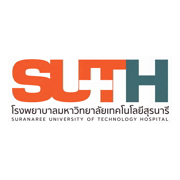
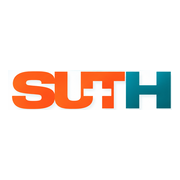
feat(brand): เพิ่ม brand asset ต้นฉบับ SUTH และจุดอ้างเดียวในโค้ด (#47)
เจ้าของระบบส่งไฟล์โลโก้ SUTH ฉบับจริงมาให้ใช้กับงานนี้ ข้อกำหนดของ Issue ระบุว่า
"ไม่วาดใหม่" และต้องเก็บต้นฉบับให้ผู้พัฒนาคนถัดไปเข้าถึงได้จากโปรเจกต์

- ต้นฉบับอยู่ที่ docs/assets/brand/ พร้อม README บอกที่มาและพารามิเตอร์ crop
- derivative ที่เบราว์เซอร์โหลดจริงอยู่ที่ apps/web/public/brand/
- ทุกจุดอ้างผ่าน BRAND_ASSETS ใน app/brand.js ที่เดียว
- favicon และ apple-touch-icon สร้างใหม่จากต้นฉบับเดียวกัน

กฎเดิมใน design-references.md ห้ามคัดลอกไฟล์ใดๆ เข้า repository ซึ่งเขียนไว้ตอนที่
แหล่งอ้างอิงทั้งหมดเป็นงานของคนอื่น การแยกกฎตามเจ้าของไฟล์เป็นการตัดสินใจที่ย้อนกลับยาก
จึงบันทึกเป็น ADR-0015

Claude-Session: https://claude.ai/code/session_01TXvettLLJgpECa1BjJegU9

Changed region(s): [[0.0556, 0.3056, 0.9722, 0.6944]]

diff --git a/apps/web/src/app/brand.js b/apps/web/src/app/brand.js
@@ -39,6 +39,14 @@ export const ORG_NAME_SHORT = t("โรงพยาบาล มทส.");
 /** ฝ่ายที่ดูแลระบบ — ใช้ในข้อความติดต่อเมื่อเข้าใช้งานไม่ได้ */
 export const OWNER_TEAM = t("ฝ่ายเทคโนโลยีสารสนเทศ");
 
+/** Brand assets — ทุกจุดอ้างผ่านที่นี่ ห้ามกระจาย path ไปตาม component */
+export const BRAND_ASSETS = Object.freeze({
+  /** ภาพเต็มสำหรับ Login — derivative ขนาดเว็บจากต้นฉบับของผู้ใช้ */
+  horizontal: "/brand/suth-horizontal.webp",
+  /** ตัดเฉพาะตัวอักษร SUTH จากต้นฉบับเดียวกัน ใช้ใน shell */
+  wordmark: "/brand/suth-wordmark.png",
+});
+
 /**
  * ชื่อแท็บเบราว์เซอร์
  * @param {string} [page] ชื่อหน้าปัจจุบัน — ไม่ส่งมา = หน้าแรก/ยังไม่รู้ว่าหน้าไหน

diff --git a/docs/decisions/0015-brand-assets-in-repository.md b/docs/decisions/0015-brand-assets-in-repository.md
@@ -1,0 +1,49 @@
+# 0015 — เก็บ brand asset ของเจ้าของระบบไว้ใน repository
+
+**สถานะ:** Accepted
+
+## บริบท
+
+`docs/explanation/design-references.md` เคยมีกฎเดียวครอบทุกอย่างว่า **"ไม่คัดลอกโลโก้ ภาพ
+ไอคอน ตัวอักษร หรือไฟล์ใดๆ เข้ามาใน repository นี้ artwork ทุกชิ้นใน SUTH สร้างใหม่ด้วย
+CSS/SVG จากสีแบรนด์ของโรงพยาบาลเอง"**
+
+กฎนั้นเขียนขึ้นตอนที่แหล่งอ้างอิงทั้งหมดเป็นงานของคนอื่น — Linear, Stripe, Attio, งานบน
+Dribbble — ซึ่งการดึงไฟล์ของเขาเข้ามาคือการละเมิดจริง ตอนนั้นจึงไม่มีเหตุให้แยกแยะว่า
+"ไฟล์ของใคร"
+
+งาน [#47](https://github.com/saritrungj/suth-helpdesk-assets/issues/47) ทำให้ข้อแตกต่างนั้น
+สำคัญขึ้นมา เจ้าของระบบส่งไฟล์โลโก้ SUTH ฉบับจริงมาให้ใช้กับงานนี้โดยตรง กฎเดิมอ่านตรงตัว
+แล้วห้ามไฟล์นั้นด้วย ทั้งที่เป็นทรัพย์สินของผู้ว่าจ้างเอง และข้อกำหนดของงานระบุชัดว่า
+**"ไม่วาดใหม่"** — ให้ใช้ภาพต้นฉบับและ exact crop เท่านั้น เพราะโลโก้ที่วาดเลียนแบบด้วย
+CSS/SVG ไม่ใช่โลโก้ของโรงพยาบาล มันคือของปลอมที่หน้าตาใกล้เคียง
+
+ทางเลือกที่จะไม่แก้กฎแล้วเก็บไฟล์ไว้นอก repository ถูกปฏิเสธด้วยข้อกำหนดของงานเช่นกัน:
+ต้นฉบับต้อง **"ให้ผู้พัฒนาคนถัดไปเข้าถึงได้จากโปรเจกต์"** asset ที่อยู่ใน Drive หรือแชท
+หายไปพร้อมคนที่ถือลิงก์เสมอ
+
+## การตัดสินใจ
+
+แยกกฎเดียวออกเป็นสองกฎ ตาม **เจ้าของไฟล์** ไม่ใช่ตามชนิดของไฟล์
+
+- **asset ของแหล่งอ้างอิงภายนอก — ห้ามเข้า repository เด็ดขาด** ใช้ได้เฉพาะการศึกษา
+  องค์ประกอบและพฤติกรรม ข้อห้ามนี้ไม่ผ่อนลง
+- **brand asset ของเจ้าของระบบ — เก็บได้** โดยมีเงื่อนไขว่าต้องบันทึกที่มาไว้ และมี
+  บ้านเดียว
+
+บ้านของมันคือ `docs/assets/brand/` — ต้นฉบับที่ผู้ใช้ส่งมาเก็บไว้โดยไม่แก้ภาพ พร้อม
+`README.md` ที่บอกว่าไฟล์ไหนมาจากไหน และ derivative ขนาดเว็บถูกสร้างด้วยพารามิเตอร์ใด
+ส่วนไฟล์ที่เบราว์เซอร์โหลดจริงอยู่ที่ `apps/web/public/brand/` และทุกจุดในโค้ดอ้างผ่าน
+`BRAND_ASSETS` ใน `apps/web/src/app/brand.js` ที่เดียว ห้ามพิมพ์ path ซ้ำใน component
+
+## ผลที่ตามมา
+
+- ย่อหน้าเรื่องลิขสิทธิ์ใน `design-references.md` ถูกเขียนใหม่ให้ตรงกับสองกฎนี้ และชี้มาที่
+  ADR ฉบับนี้กับ `docs/assets/brand/README.md`
+- repository โตขึ้นจากไฟล์ต้นฉบับ (`suth-horizontal-source.png` ~1.1 MB) ซึ่งเป็นราคาที่
+  ยอมจ่ายเพื่อให้สร้าง asset ชุดใหม่ได้โดยไม่ต้องตามหาไฟล์จากใคร ไฟล์นี้ไม่ถูกส่งถึง
+  เบราว์เซอร์ — มีเฉพาะ derivative ใน `public/brand/` เท่านั้นที่ถูกโหลด
+- โฟลเดอร์ `brand/` ที่รากเป็นของรุ่นก่อนหน้า ไฟล์ในนั้นไม่ถูกอ้างจากโค้ดแล้ว `README.md`
+  ของมันชี้มาที่บ้านใหม่ และเก็บไว้เป็นบันทึกที่มาเท่านั้น
+- กฎนี้ไม่เปิดทางให้ asset ของ reference ภายนอกเข้ามาแม้แต่ไฟล์เดียว ถ้าวันหนึ่งอยากใช้
+  ของใครสักคนจริงๆ ต้องเขียน ADR ใหม่พร้อมหลักฐานสิทธิ์การใช้งาน

diff --git a/docs/assets/brand/README.md b/docs/assets/brand/README.md
@@ -1,0 +1,12 @@
+# SUTH brand assets
+
+โฟลเดอร์นี้เป็นบ้านของภาพต้นฉบับที่ผู้ใช้ส่งให้โครงการ ส่วน asset ขนาดเว็บที่หน้าจอโหลดจริงอยู่ที่ `apps/web/public/brand/`
+
+- `suth-horizontal-source.png` — ต้นฉบับ `SUTH-Horizontal.png` จาก `SUTH-Design System/SUTH-logo/` ที่ผู้ใช้จัดเตรียม เก็บไว้โดยไม่แก้ภาพ
+- `apps/web/public/brand/suth-horizontal.webp` — ภาพเต็ม 1200×676 สำหรับ Login
+- `apps/web/public/brand/suth-wordmark.png` — exact crop เฉพาะตัวอักษร SUTH สำหรับ sidebar
+- `apps/web/public/favicon.png` และ `apple-touch-icon.png` — wordmark เดียวกันบนพื้นขาว ขนาด 64×64 และ 180×180
+
+จุด crop อ้างจากภาพต้นฉบับ 1672×941: `crop=946:230:337:438` จากนั้น resize ด้วย Lanczos โดยไม่วาดหรือดัดแปลงเนื้อหาโลโก้ พื้นหลังขาวถูกรักษาไว้ทั้งธีมสว่างและมืดผ่าน `--brand-backdrop`
+
+จุดอ้างในโค้ดอยู่รวมกันที่ `apps/web/src/app/brand.js` ห้ามพิมพ์ path ของ asset ซ้ำใน component ใหม่

diff --git a/brand/README.md b/brand/README.md
@@ -1,5 +1,9 @@
 # ไฟล์ต้นฉบับโลโก้
 
+> **ไฟล์ในโฟลเดอร์นี้เป็นของรุ่นก่อน** ต้นฉบับและวิธีสร้าง asset ที่เว็บใช้อยู่จริงตอนนี้อยู่ที่
+> [`docs/assets/brand/README.md`](../docs/assets/brand/README.md) — คำสั่ง ffmpeg ด้านล่างสร้างไฟล์ชุดเก่า
+> ที่ไม่ได้ถูกอ้างในโค้ดแล้ว เก็บไว้เป็นบันทึกที่มาเท่านั้น
+
 `logo-suthnews.jpg` คือไฟล์ต้นฉบับความละเอียดเต็มที่ใช้งานอยู่ปัจจุบัน (6336×2688, พื้นขาว)
 เก็บไว้ที่นี่เพื่อให้สร้างไฟล์ที่เว็บใช้จริงขึ้นมาใหม่ได้ ไม่ได้ถูกโหลดโดยแอปโดยตรง
 

diff --git a/docs/decisions/README.md b/docs/decisions/README.md
@@ -36,3 +36,4 @@
 | [0012](0012-remove-mcp-server.md) | ถอดเซิร์ฟเวอร์ MCP ออกจาก repository | Accepted |
 | [0013](0013-localized-reporting.md) | แยกภาษาแสดงผลออกจากข้อมูลรายงาน | Accepted |
 | [0014](0014-resolve-overlapping-location-history.md) | เลือกประวัติตำแหน่งที่มีผลเพียงช่วงเดียวต่อเดือน | Accepted |
+| [0015](0015-brand-assets-in-repository.md) | เก็บ brand asset ของเจ้าของระบบไว้ใน repository | Accepted |
